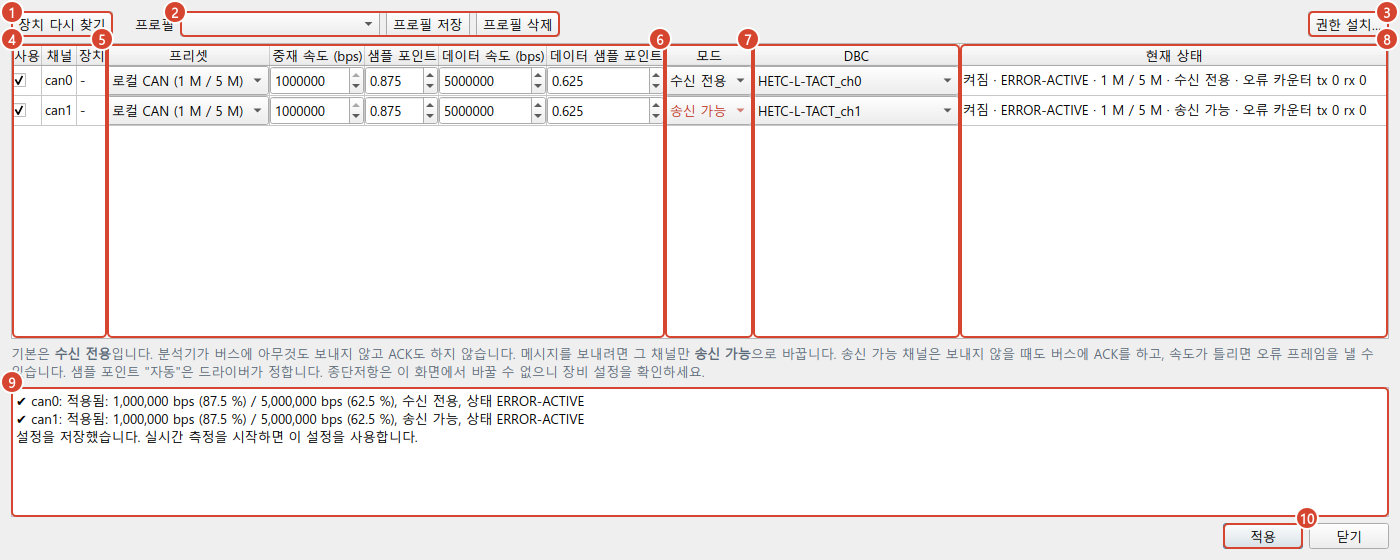
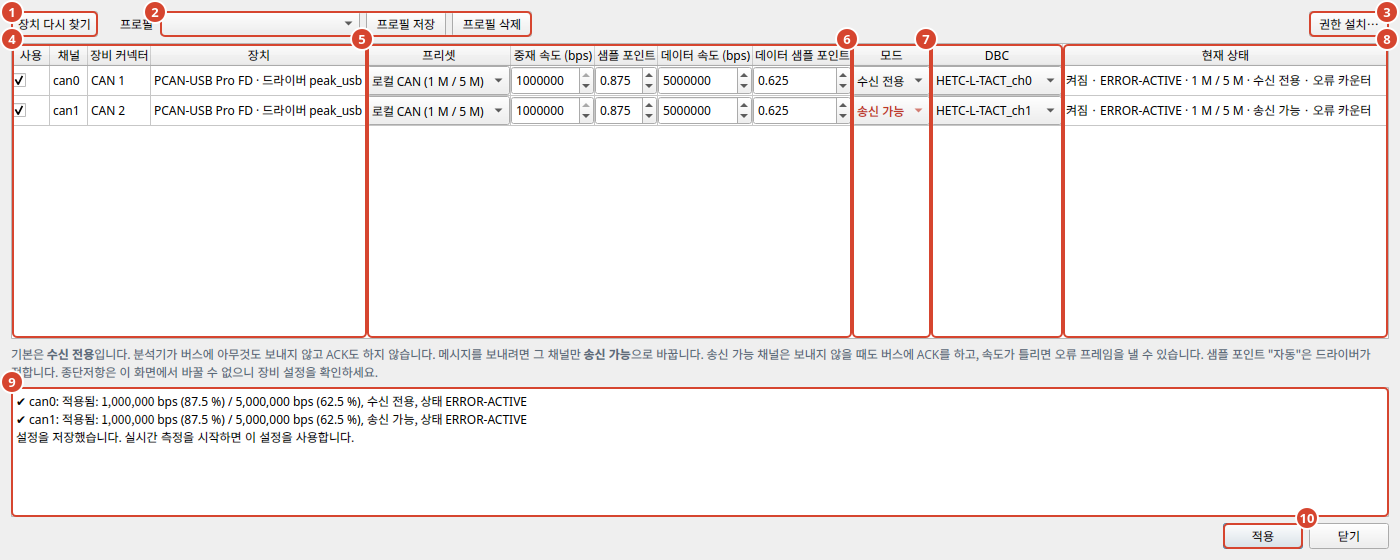
docs: venv install, canmon group re-login, shared profiles, connector column
- README/manual: Ubuntu blocks system pip (externally-managed-environment),
  so install into .venv with uv or python3 -m venv
- canmon-setup: re-login (or sg canmon) after installing access; berr-reporting
  fix and how to reinstall the helper; passwordless setup command
- hardware setup: shared profiles in data/hw_profiles.json, "장비 커넥터"
  column (can0 = CAN 1), refreshed 06_hardware screenshot
- verification status as of 2026-11-10: channel setup confirmed on a real
  PCAN-USB Pro FD, bus reception not yet

diff --git a/docs/manual.html b/docs/manual.html
@@ -144,7 +144,7 @@ td code { white-space: nowrap; }
 <div class="wrap">
   <nav class="toc" aria-label="목차">
     <div class="brand">FM26 CAN Monitor</div>
-    <div class="ver">사용 설명서 · 2026-11-09</div>
+    <div class="ver">사용 설명서 · 2026-11-10</div>
     <ol>
       <li><a href="#start">처음 설치와 실행</a></li>
       <li><a href="#connect">로봇에 연결하기 전</a></li>
@@ -171,7 +171,8 @@ td code { white-space: nowrap; }
         <span class="pill ok">오프라인 분석 · 완료</span>
         <span class="pill ok">실시간 측정 · 완료</span>
         <span class="pill ok">메시지 송신 · 완료</span>
-        <span class="pill warn">실제 분석기 확인 전</span>
+        <span class="pill ok">분석기 채널 설정 · 확인</span>
+        <span class="pill warn">실제 버스 수신 확인 전</span>
       </div>
       <div class="callout info" style="margin-top:20px">
         <p>화면 이미지는 모두 <strong>가상 데이터</strong>(<code>qa canmon sample</code>로 만든 HETC-L-TACT 12초 기록)로 찍었습니다. 실시간 측정 화면은 이 파일을 실제 속도로 흘려보내 연출했고, 메시지 송신 화면은 can1을 송신 가능 채널로 가정했습니다. 실제 로봇이나 분석기에서 나온 값이 아닙니다. 이미지를 누르면 원래 크기로 볼 수 있습니다.</p>
@@ -196,7 +197,7 @@ td code { white-space: nowrap; }
 ./install_shortcut.sh</code></pre>
       <p>CAN Monitor는 QA Tools 창의 도구 중 하나입니다. 아래 화면 이미지는 CAN Monitor만 실행해 찍은 것이고, QA Tools 창에서는 같은 화면 왼쪽에 도구 목록이 하나 더 붙습니다.</p>
       <ul>
-        <li><b>필요한 패키지:</b> <code>PyQt6</code>, <code>pyqtgraph</code>, <code>numpy</code>, <code>cantools</code>입니다. 저장소 폴더에서 <code>pip install -e ".[gui]"</code>로 설치합니다.</li>
+        <li><b>필요한 패키지:</b> <code>PyQt6</code>, <code>pyqtgraph</code>, <code>numpy</code>, <code>cantools</code>입니다. Ubuntu는 시스템 Python에 <code>pip install</code>을 막으므로(<code>externally-managed-environment</code> 오류) 저장소 안에 가상환경을 만들어 설치합니다. <code>uv venv .venv</code> 후 <code>uv pip install --python .venv/bin/python -e ".[gui]"</code>, uv가 없으면 <code>python3 -m venv .venv</code> 후 <code>.venv/bin/pip install -e ".[gui]"</code>입니다(Ubuntu는 먼저 <code>sudo apt install python3-venv</code>). 그 뒤 <code>source .venv/bin/activate</code>로 가상환경을 켜면 위 명령이 그대로 동작합니다.</li>
         <li><b>다른 폴더의 DBC를 쓸 때:</b> 환경변수 <code>CANMON_DBC_DIR</code>로 DBC 폴더를 지정하거나, 프로그램 안에서 "DBC 폴더 변경…"을 누릅니다.</li>
         <li><b>WSL:</b> X11용 라이브러리가 없어 Wayland(WSLg)로 띄웁니다. <code>qa</code> 스크립트가 알아서 설정합니다. WSL과 Windows에서는 CAN 장치를 쓸 수 없어서 파일 분석만 됩니다.</li>
       </ul>
@@ -204,7 +205,7 @@ td code { white-space: nowrap; }
       <ol class="steps">
         <li><div><b>Linux 설치.</b> Ubuntu 같은 Linux를 설치합니다. PEAK PCAN-USB Pro FD 드라이버(<code>peak_usb</code>)는 커널에 들어 있습니다.</div></li>
         <li><div><b>분석기 확인.</b> 분석기를 꽂고 터미널에서 <code>ip link</code>를 실행해 <code>can0</code>, <code>can1</code>이 보이는지 확인합니다.</div></li>
-        <li><div><b>CAN 설정 권한 설치.</b> 메뉴 "도구 → CAN 설정 권한 설치…"를 엽니다(<a href="#access">아래 화면</a>). 설치한 뒤 한 번 로그아웃해야 적용되고, 그 뒤로는 속도를 바꿀 때 관리자 암호를 묻지 않습니다.</div></li>
+        <li><div><b>CAN 설정 권한 설치.</b> 메뉴 "도구 → CAN 설정 권한 설치…"를 엽니다(<a href="#access">아래 화면</a>). 설치한 뒤 한 번 로그아웃했다가 다시 로그인해야 적용되고, 그 뒤로는 속도를 바꿀 때 관리자 암호를 묻지 않습니다. 다시 로그인하기 전에 바로 쓰려면 <code>sg canmon -c ".venv/bin/qa"</code>로 실행합니다.</div></li>
         <li><div><b>바로가기 등록.</b> <code>./install_shortcut.sh</code>로 앱 메뉴에 등록합니다.</div></li>
       </ol>
 
@@ -354,9 +355,9 @@ td code { white-space: nowrap; }
       </figure>
       <ol class="legend">
         <li><div><b>장치 다시 찾기</b><p>분석기를 꽂은 뒤 누르면 CAN 장치 목록을 다시 읽습니다. 장치가 없으면 "CAN 장치를 찾지 못했습니다"가 나옵니다.</p></div></li>
-        <li><div><b>프로필</b><p>지금 표의 구성을 이름을 붙여 저장하고 불러옵니다. 예를 들어 "왼팔 촉각 로컬 CAN"처럼 저장해 둡니다.</p></div></li>
+        <li><div><b>프로필</b><p>지금 표의 구성을 이름을 붙여 저장하고 불러옵니다. 예를 들어 "왼팔 촉각 로컬 CAN"처럼 저장해 둡니다. 여기서 저장한 프로필은 이 PC의 사용자 설정에만 남습니다. 저장소의 <code>data/hw_profiles.json</code>에 있는 프로필(예: <code>FM26C</code>)은 모든 PC의 목록에 공용으로 나오고, 이 화면에서 지울 수 없습니다. 이 파일에서 DBC는 경로 대신 채널 이름(예: <code>HETC-L-TACT_ch0</code>)으로 적습니다.</p></div></li>
         <li><div><b>권한 설치</b><p><a href="#access">CAN 설정 권한 설치</a> 창을 엽니다.</p></div></li>
-        <li><div><b>사용, 채널, 장치</b><p>체크한 채널만 설정하고 측정합니다. 장치 칸에는 USB 제품명, 일련번호, 분석기 채널 번호가 나옵니다.</p></div></li>
+        <li><div><b>사용, 채널, 장비 커넥터, 장치</b><p>체크한 채널만 설정하고 측정합니다. <b>장비 커넥터</b>는 그 채널이 분석기 본체의 어느 커넥터인지입니다. 리눅스 번호는 0부터, 커넥터 번호는 1부터 세므로 PCAN-USB Pro FD 하나만 꽂으면 <code>can0</code>이 CAN 1, <code>can1</code>이 CAN 2입니다. 분석기를 여러 개 꽂으면 <code>can</code> 번호가 바뀔 수 있으니 이 칸으로 확인합니다. 장치 칸에는 USB 제품명, 일련번호, 드라이버가 나옵니다.</p></div></li>
         <li><div><b>프리셋과 속도</b><p>"로컬 CAN (1 M / 5 M)"은 87.5 % / 62.5 % 샘플 포인트, "D-CAN (125 k / 1 M)"은 드라이버 자동입니다. 값을 직접 바꾸면 프리셋이 "직접 입력"으로 바뀝니다. 샘플 포인트 0은 "자동"입니다.</p></div></li>
         <li><div><b>모드</b><p><b>수신 전용</b>이 기본입니다. 메시지를 보낼 채널만 <b>송신 가능</b>(빨간 글씨)으로 바꿉니다. 이 선택은 저장되지 않아서, 창을 다시 열면 수신 전용으로 돌아와 있습니다.</p></div></li>
         <li><div><b>DBC</b><p>채널마다 실시간 측정에 쓸 DBC를 고릅니다.</p></div></li>
@@ -526,6 +527,9 @@ td code { white-space: nowrap; }
 sudo ./qa canmon setup can0 local
 sudo ./qa canmon setup can1 local
 
+<span class="c"># CAN 설정 권한을 설치한 PC에서는 암호 없이 (로컬 CAN, 수신 전용)</span>
+sudo -n /usr/local/sbin/canmon-setup up can0 1000000 0.875 5000000 0.625 on
+
 <span class="c"># 60초 캡처 (Ctrl+C로 먼저 끝낼 수 있음)</span>
 ./qa canmon capture can0 can1 -o ltact.csv --seconds 60
 
@@ -543,7 +547,10 @@ sudo ./qa canmon setup can1 local
         <thead><tr><th>증상</th><th>확인할 것</th></tr></thead>
         <tbody>
           <tr><td>"CAN 장치를 찾지 못했습니다"</td><td>분석기가 꽂혀 있는지, <code>ip link</code>에 <code>can0</code>이 보이는지 확인합니다. Windows와 WSL에서는 항상 이렇게 나옵니다.</td></tr>
-          <tr><td>적용하면 "설정 실패 … password is required"</td><td>CAN 설정 권한을 설치하지 않았거나, 설치 후 로그아웃하지 않았습니다.</td></tr>
+          <tr><td>적용하면 "설정 실패 … password is required"</td><td>CAN 설정 권한을 설치하지 않았거나, 설치 후 다시 로그인하지 않았습니다. <code>id</code>에 <code>canmon</code>이 없으면 다시 로그인하거나 <code>sg canmon -c ".venv/bin/qa"</code>로 실행합니다.</td></tr>
+          <tr><td>적용하면 "BERR-REPORTING not supported" / "the driver refused these settings"</td><td>2026-11-10 이전에 설치한 설정 스크립트입니다. CAN 설정 권한을 다시 설치하거나 <code>sudo install -o root -g root -m 0755 src/qatools/tools/canmon/hw/canmon-setup /usr/local/sbin/canmon-setup</code>을 실행합니다.</td></tr>
+          <tr><td><code>pip install</code>에서 "externally-managed-environment"</td><td>Ubuntu가 시스템 Python 설치를 막는 것입니다. <a href="#start">처음 설치와 실행</a>의 가상환경 방법으로 설치합니다.</td></tr>
+          <tr><td>can0, can1이 분석기의 어느 커넥터인지 헷갈림</td><td>하드웨어 설정의 "장비 커넥터" 칸을 봅니다. 분석기 하나만 꽂으면 can0이 CAN 1, can1이 CAN 2입니다.</td></tr>
           <tr><td>"적용했지만 요청과 다릅니다"</td><td>드라이버가 그 속도나 샘플 포인트를 정확히 맞추지 못한 것입니다. 메시지에 나온 실제 값을 보고 샘플 포인트를 조정합니다.</td></tr>
           <tr><td>"측정할 채널이 없습니다"</td><td>하드웨어 설정에서 채널을 체크하고 "적용"을 눌렀는지 확인합니다. 켜져 있는 채널만 측정합니다.</td></tr>
           <tr><td>"보낼 수 있는 채널이 없습니다"</td><td>측정 중인 채널이 모두 수신 전용입니다. 측정을 멈추고 하드웨어 설정에서 그 채널만 송신 가능으로 적용합니다.</td></tr>
@@ -559,7 +566,7 @@ sudo ./qa canmon setup can1 local
     <!-- 13 -->
     <section id="status">
       <h2><span class="no">13</span>검증 상태</h2>
-      <p class="sub">2026-11-09 기준입니다. 분석기가 도착하면 아래 "확인 전" 항목부터 확인합니다.</p>
+      <p class="sub">2026-11-10 기준입니다. 분석기(PCAN-USB Pro FD)는 측정용 노트북에 연결했고, 로봇 버스에 연결하면 아래 "확인 전" 항목부터 확인합니다.</p>
       <div class="tablewrap"><table>
         <thead><tr><th>항목</th><th>상태</th><th>근거</th></tr></thead>
         <tbody>
@@ -568,11 +575,12 @@ sudo ./qa canmon setup can1 local
           <tr><td>실시간 통계와 로그 저장</td><td><span class="pill ok">검사 통과</span></td><td><code>check_live.py</code> (파일을 흘려보내는 방식)</td></tr>
           <tr><td>송신 인코딩, 주기 정확도, 정지 처리</td><td><span class="pill ok">검사 통과</span></td><td><code>check_tx.py</code> (가짜 송신 장치, 2 ms 주기와 초당 6,000 프레임 확인)</td></tr>
           <tr><td>하드웨어 설정 화면</td><td><span class="pill ok">검사 통과</span></td><td><code>check_hw.py</code> (가짜 장치 정보)</td></tr>
-          <tr><td>SocketCAN 실제 수신</td><td><span class="pill warn">확인 전</span></td><td>분석기 필요</td></tr>
+          <tr><td>실제 분석기 채널 설정 (로컬 CAN 1 M / 5 M, 수신 전용), 장비 커넥터 표시</td><td><span class="pill ok">확인</span></td><td>2026-11-10 PCAN-USB Pro FD. 드라이버가 받아들인 값이 요청과 같고 ERROR-ACTIVE</td></tr>
+          <tr><td>SocketCAN 실제 수신</td><td><span class="pill warn">확인 전</span></td><td>로봇 버스 연결 필요 (버스 없이 10초 캡처는 0 프레임)</td></tr>
           <tr><td>하드웨어 타임스탬프 (수신, 송신 에코)</td><td><span class="pill warn">확인 전</span></td><td>분석기 필요</td></tr>
           <tr><td>실제 송신, 수신 전용 채널의 송신 차단</td><td><span class="pill warn">확인 전</span></td><td>분석기 필요</td></tr>
           <tr><td>부하 메시지의 실제 부하율</td><td><span class="pill warn">확인 전</span></td><td>상태 줄 측정값과 비교 필요</td></tr>
-          <tr><td>CAN 설정 권한 스크립트</td><td><span class="pill warn">확인 전</span></td><td>측정용 노트북에서 실행 필요</td></tr>
+          <tr><td>CAN 설정 권한 스크립트</td><td><span class="pill ok">확인</span></td><td>2026-11-10 측정용 노트북. <code>peak_usb</code>가 berr-reporting을 거부해 수정함</td></tr>
           <tr><td>D-CAN 샘플 포인트</td><td><span class="pill warn">확인 전</span></td><td>드라이버 자동값 사용 중</td></tr>
         </tbody>
       </table></div>

diff --git a/README.md b/README.md
@@ -6,19 +6,35 @@ Holiday Robotics 품질·검증용 도구 모음입니다. 도구는 명령줄(`
 |---|---|---|---|
 | CAN Monitor (`canmon`) | 있음 | 있음 | [docs/canmon.md](docs/canmon.md), [docs/manual.html](docs/manual.html) |
 
-실제 CAN 분석기(PCAN-USB Pro FD)로는 아직 확인하지 못했습니다. 지금까지의 검사는 모두 가상 데이터와 가짜 장치로 했습니다.
+2026-11-10에 측정용 노트북에서 실제 분석기(PCAN-USB Pro FD)의 채널 설정(로컬 CAN, 수신 전용)까지 확인했습니다. 로봇 버스에 연결해 프레임을 받아 본 적은 아직 없습니다. 그 밖의 검사는 가상 데이터와 가짜 장치로 했습니다.
 
 ## 설치
 
 Python 3.10 이상이 필요합니다.
 
+Ubuntu 23.04 이후(측정용 노트북의 24.04 포함)는 시스템 Python에 `pip install`을 막아 `externally-managed-environment` 오류가 납니다. 그래서 저장소 안에 가상환경(`.venv`)을 만들어 설치합니다.
+
 ```bash
 git clone git@github.com:Holiday-Robot/QA-tools.git
 cd QA-tools
-pip install -e ".[gui]"      # 화면 없이 명령줄만 쓸 때는 pip install -e .
+
+# uv가 있으면 (2026-11-10 측정용 노트북에서 확인)
+uv venv .venv
+uv pip install --python .venv/bin/python -e ".[gui]"     # 화면 없이 명령줄만 쓸 때는 -e .
+
+# uv가 없으면 (Ubuntu는 먼저 sudo apt install python3-venv)
+python3 -m venv .venv
+.venv/bin/pip install -e ".[gui]"
 ```
 
-설치하지 않고 저장소 폴더에서 `./qa`로 실행해도 됩니다. 이때는 `numpy`, `cantools`, `PyQt6`, `pyqtgraph`가 이미 설치되어 있어야 합니다. `pip install`로 설치하는 방법은 아직 실행해 보지 못했습니다(개발 PC에 pip가 없어 `./qa`로만 확인했습니다).
+설치한 뒤에는 가상환경을 켜고 `qa`로 실행합니다. 켜지 않고 `.venv/bin/qa`로 실행해도 됩니다.
+
+```bash
+source .venv/bin/activate
+qa list
+```
+
+설치하지 않고 저장소 폴더에서 `./qa`로 실행해도 됩니다. `./qa`는 그때 PATH에 있는 `python3`을 쓰므로, 가상환경을 켜 두었거나 `numpy`, `cantools`, `PyQt6`, `pyqtgraph`가 이미 설치되어 있어야 합니다.
 
 ## 사용
 
@@ -52,6 +68,7 @@ src/qatools/
       hw/                                             CAN 채널 설정 스크립트
 tests/                      검사 (화면 없이, CAN 장치 없이 실행)
 data/dbc/                   채널별 DBC
+data/hw_profiles.json       하드웨어 설정 공용 프로필 (FM26C 등)
 docs/                       설명서와 화면 이미지
 ```
 
